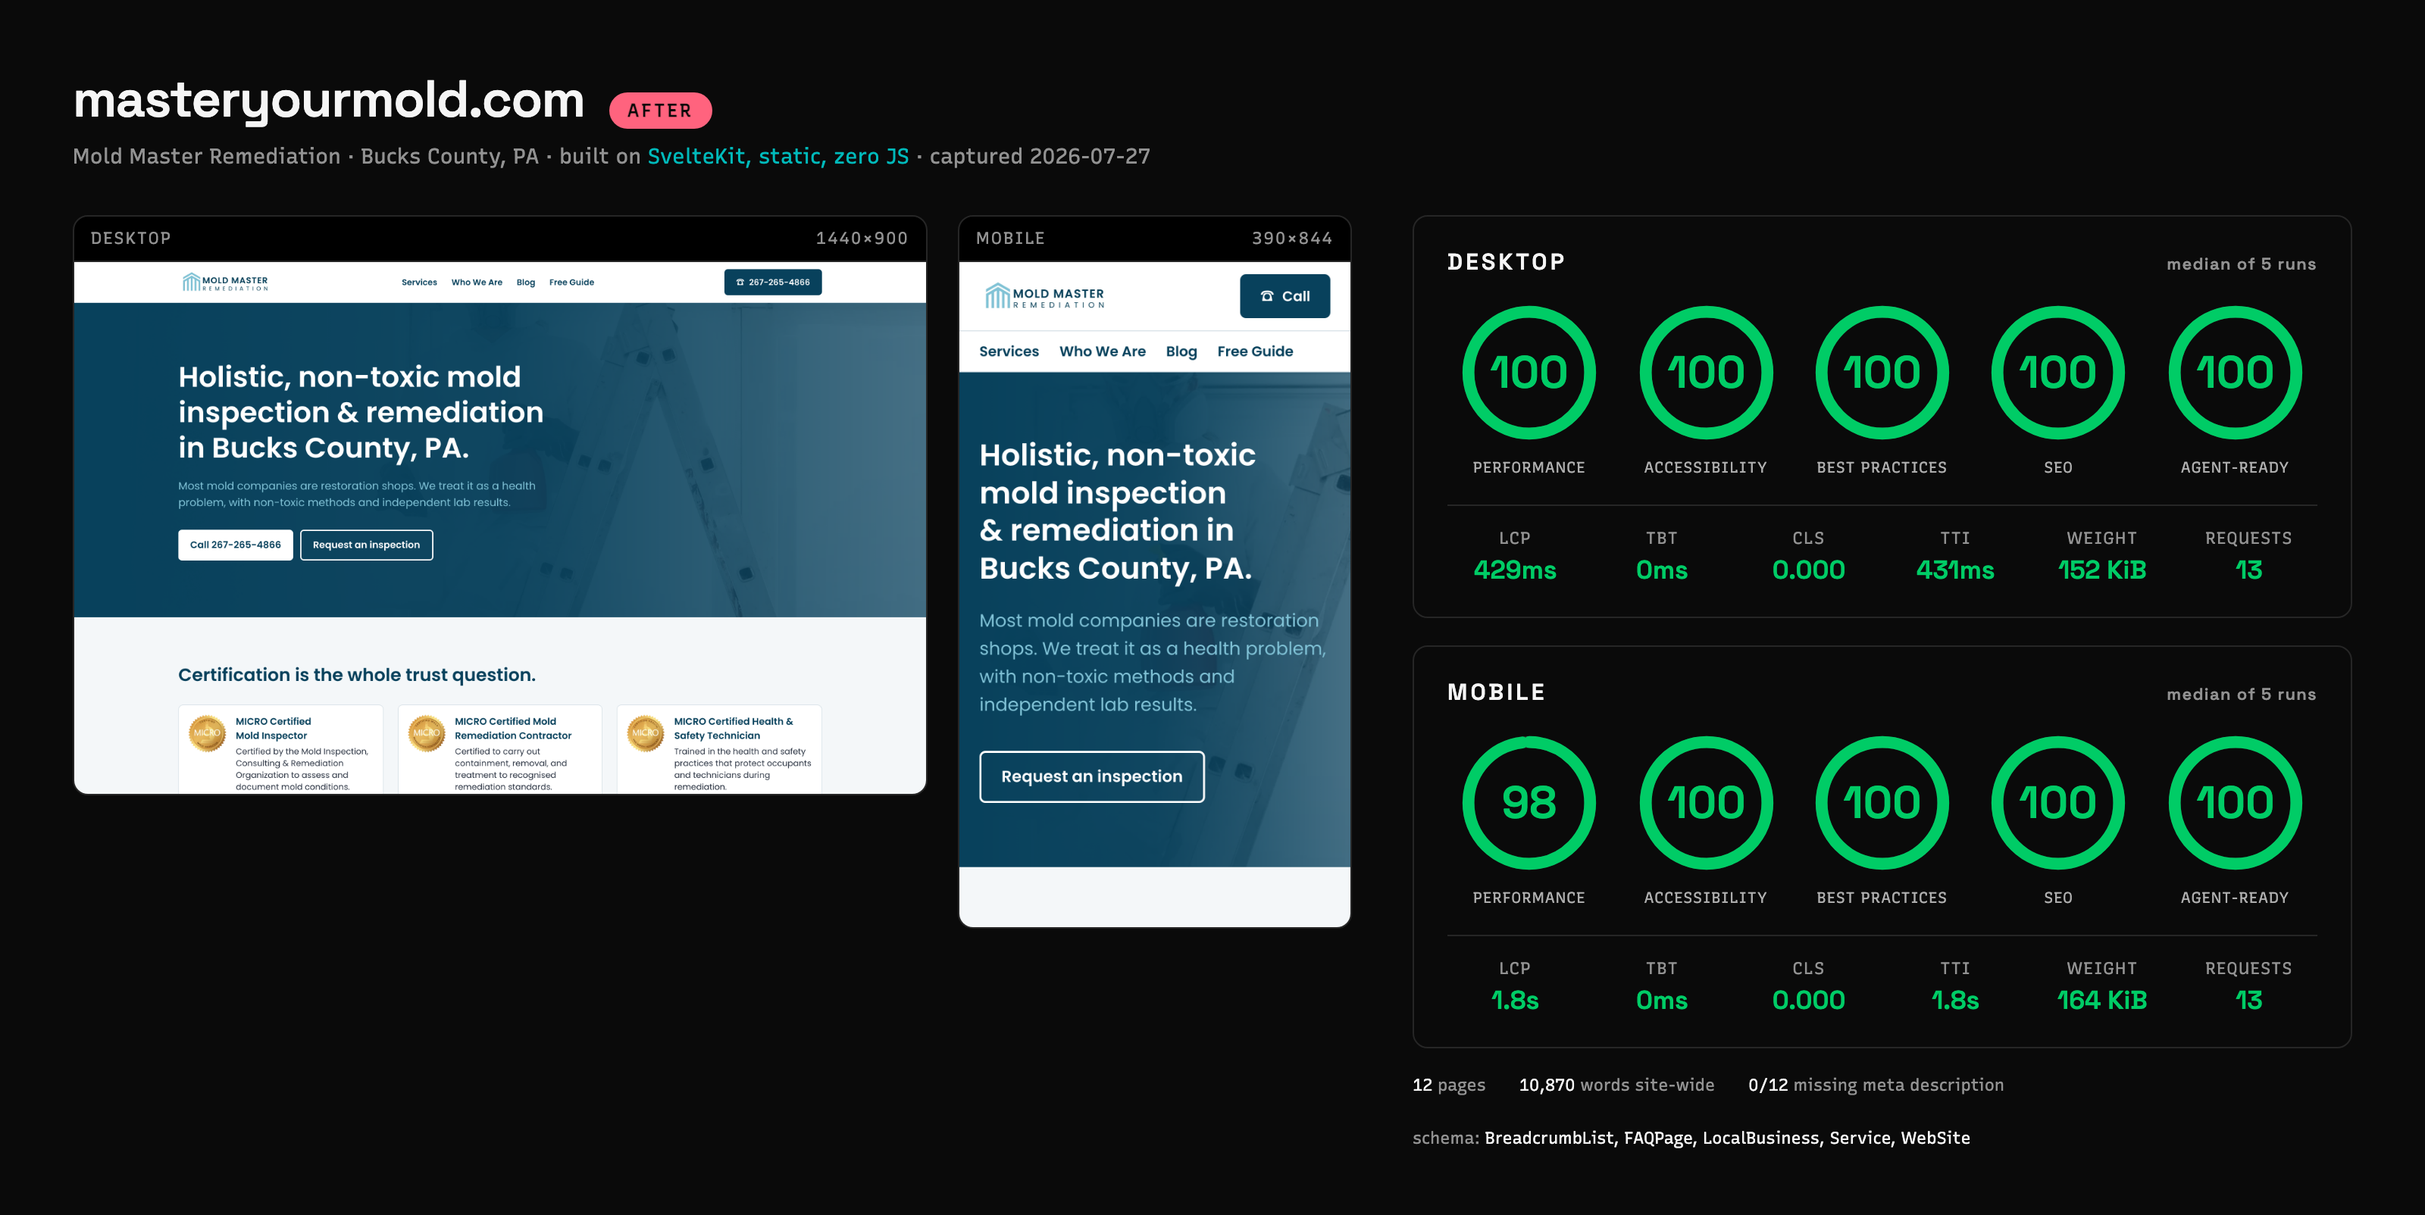
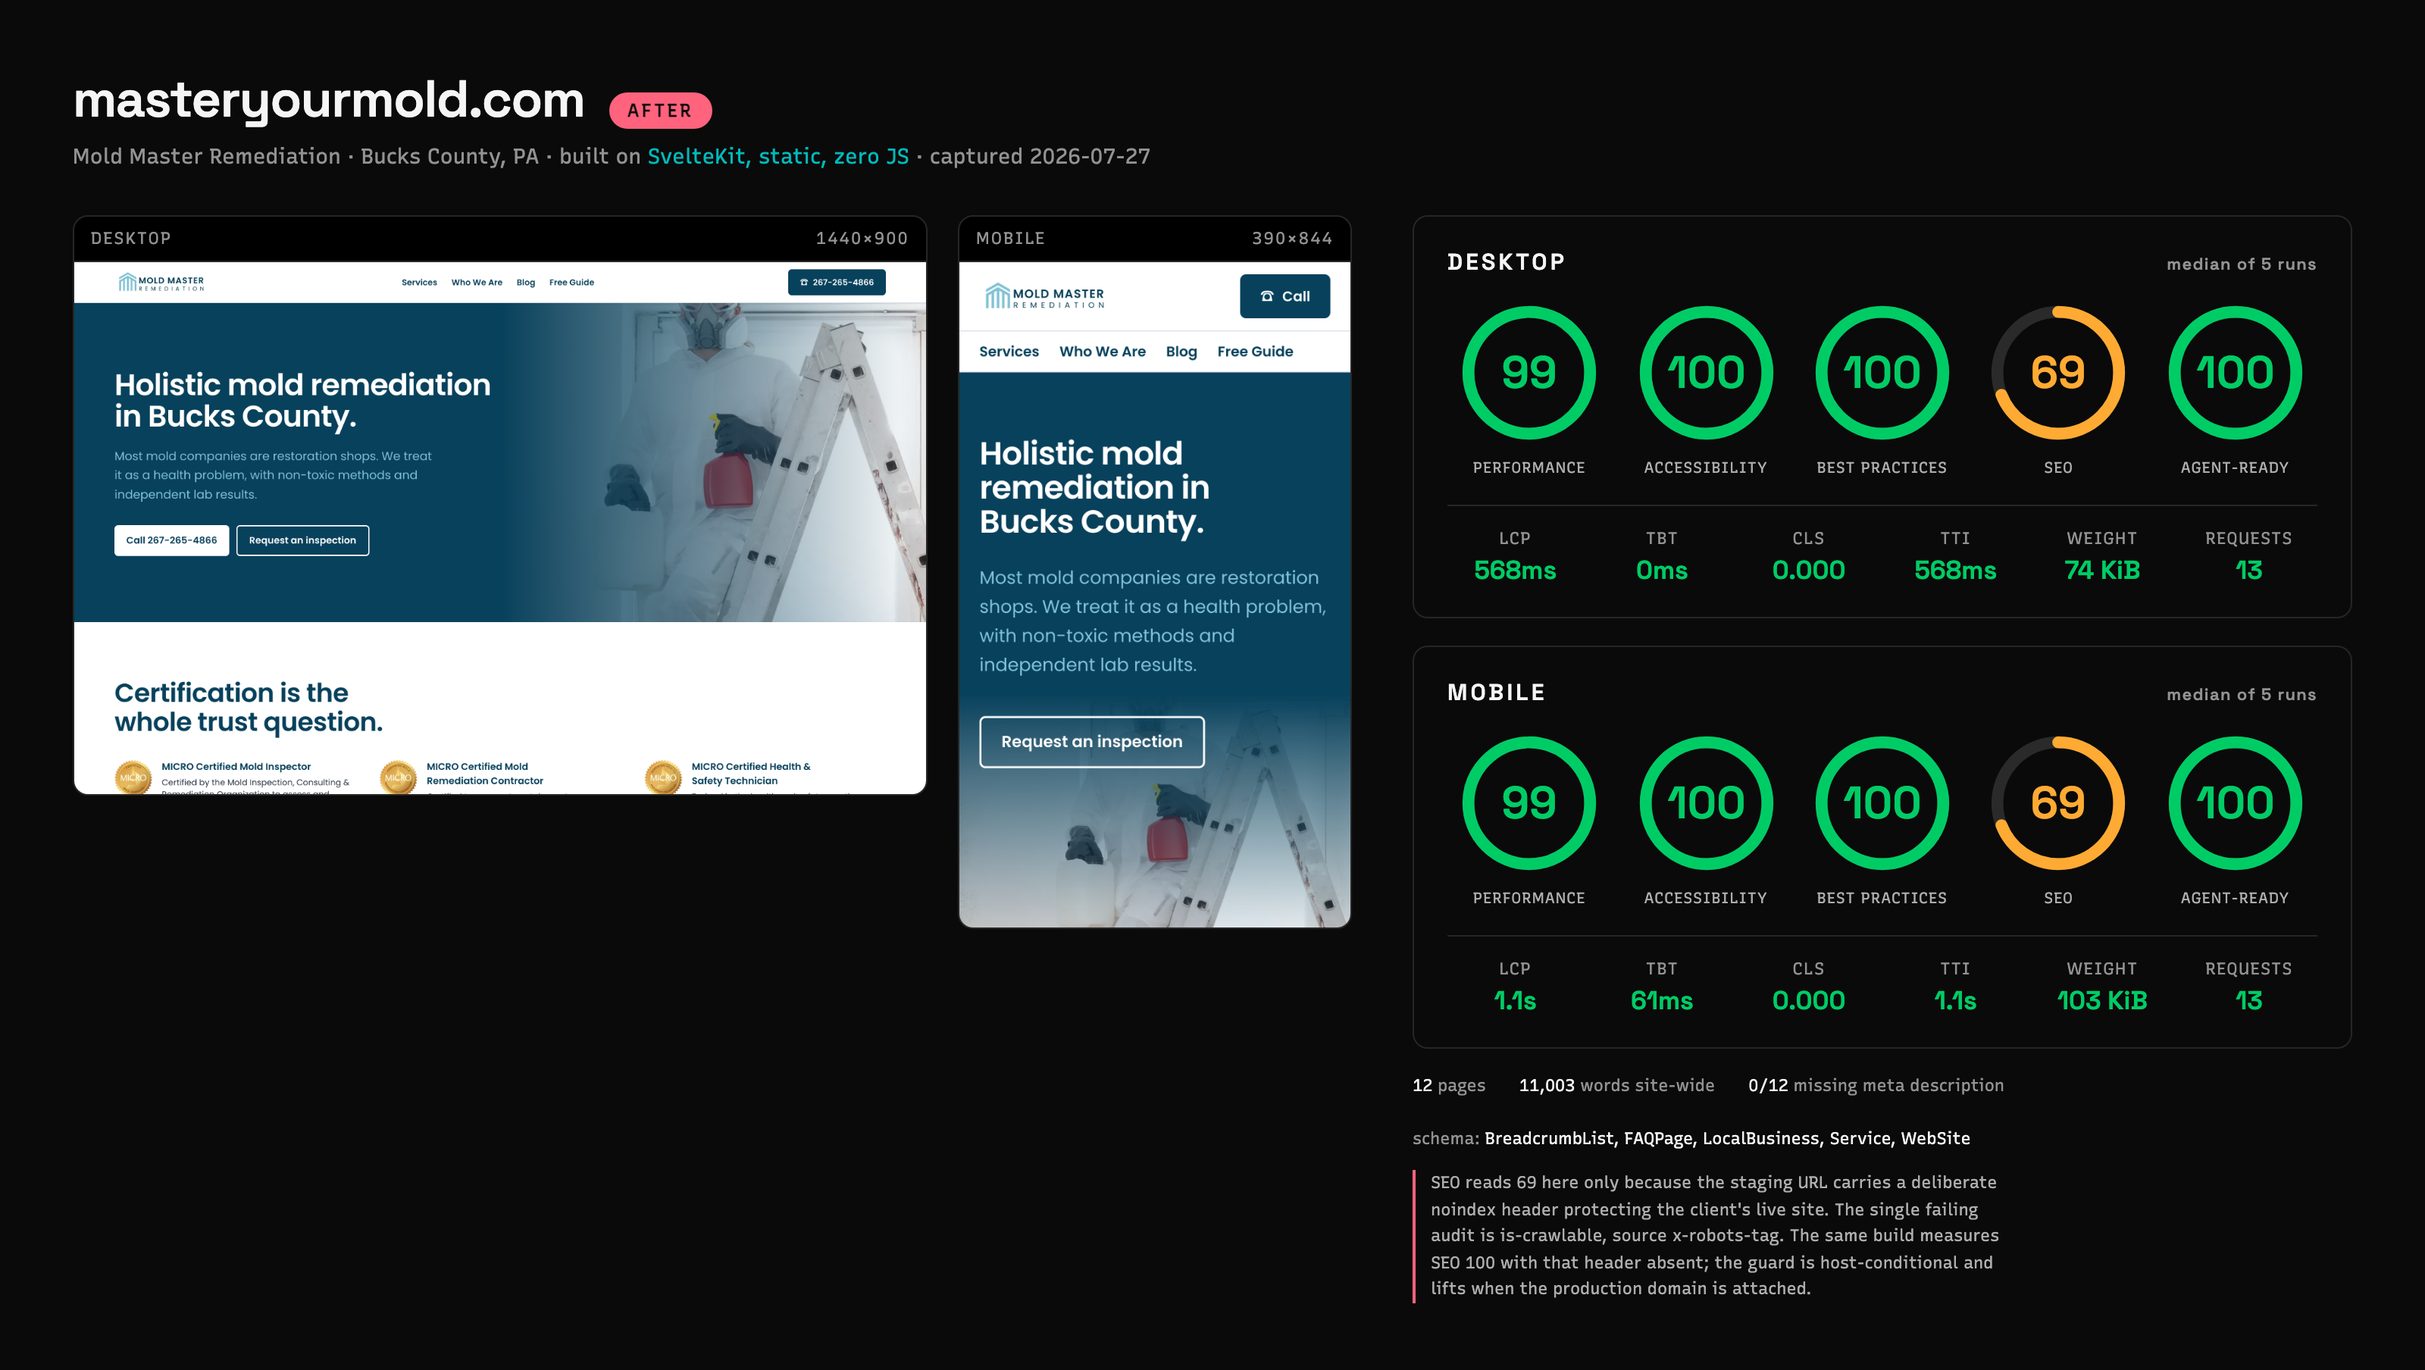
case-study: after state, measured over the network
02-after.md, plus a regenerated after.png and after.json from the deployed
build. Both columns are now measured over a real network against a real CDN
(Wix on Fastly, the rebuild on Vercel), which closes the caveat the earlier
after-numbers carried: those came from a locally served build and were honest
about structure but optimistic about latency.

Median of 5 per form factor:
  mobile   perf 67 -> 99   a11y 95 -> 100   agent-ready 67 -> 100
  desktop  perf 94 -> 99   a11y 91 -> 100   agent-ready 67 -> 100
  mobile LCP 4.32s -> 1.08s, TTI 10.80s -> 1.08s, TBT 448ms -> 61ms
  weight 1,557 -> 103 KiB (15x), requests ~179 -> 13 (13.8x)
  meta descriptions 11/13 missing -> 0/12, schema 2 types -> 5

MEASUREMENT ARTIFACT, stated on the card itself rather than quietly resolved in
whichever direction flatters: SEO reads 69 on the staging URL, not 100. The
cause is our own deliberate X-Robots-Tag noindex protecting the client's live
site from an indexed staging copy. The single failing audit is is-crawlable,
whose reported source is literally that header; every other SEO audit passes;
and the same build measures SEO 100 on all five runs with the header absent
(lighthouse/runs-local/). Reporting 69 would read as "the rebuild hurt SEO",
which is false. Reporting 100 without evidence would be a claim. Both run sets
are kept.

Desktop Speed Index went the wrong way, 0.87s -> 1.22s, and the doc says so: the
old page had no meaningful hero image and this one loads a real photograph.
[…]

diff --git a/case-studies/masteryourmold/02-after.md b/case-studies/masteryourmold/02-after.md
@@ -1,0 +1,247 @@
+# masteryourmold.com — after state
+
+**Mold Master Remediation** · Bucks County, PA
+Rebuilt on **SvelteKit**, fully prerendered, **zero client JavaScript** · Measured **2026-07-27**
+
+Companion to [`00-baseline.md`](./00-baseline.md) (what was wrong) and
+[`01-rebuild-scope.md`](./01-rebuild-scope.md) (what we said we'd do). This is what shipped.
+
+Code: `threesam/moldmaster` · Live: `moldmaster.vercel.app`
+
+> **Read the status honestly.** This is deployed to a staging URL, not to the client's domain. The
+> DNS cutover has not happened, so the old Wix site is still what the public sees. Everything below is
+> measured on the real thing over a real network; none of it is a projection.
+
+---
+
+## 0. Method, and what changed about it
+
+Same pipeline as the baseline (`~/Code/Me/scripts/case-study`), same median-of-5, same form factors.
+Both columns are now measured **over the network against a real CDN** (Wix on Fastly, the rebuild on
+Vercel), which closes the caveat flagged in the baseline: the earlier after-numbers came from a
+locally served build and were honest about structure but optimistic about latency.
+
+**One measurement artifact, stated up front.** The staging URL carries a deliberate
+`X-Robots-Tag: noindex, nofollow`, because every page canonicalises to `www.masteryourmold.com` and an
+indexed staging copy would compete with the client's live site. Lighthouse reads that as a failure of
+the `is-crawlable` audit and drops SEO from 100 to **69**.
+
+That is scaffolding, not the product:
+
+- The **only** failing SEO audit is `is-crawlable`, and its reported source is literally
+  `x-robots-tag: noindex, nofollow`.
+- Every other SEO audit passes: `document-title`, `meta-description`, `http-status-code`, `link-text`,
+  `crawlable-anchors`, `robots-txt`, `image-alt`, `hreflang`, `canonical`.
+- The same build measured without that header scores **SEO 100 on all five runs, both form factors**
+  (`lighthouse/runs-local/`).
+- The guard is host-conditional on `*.vercel.app` and lifts the moment a production domain is
+  attached.
+
+Both measurements are kept in the repo rather than the flattering one being reported alone.
+
+| Run set | What it is |
+|---|---|
+| `lighthouse/runs/` | before, `www.masteryourmold.com`, network |
+| `lighthouse/runs-after/` | after, `moldmaster.vercel.app`, network, **with** the staging noindex |
+| `lighthouse/runs-local/` | after, identical build served without the staging header |
+
+---
+
+## 1. Scores
+
+Median of 5 runs per form factor.
+
+### Desktop
+
+| | Performance | Accessibility | Best practices | SEO | Agent-ready |
+|---|---|---|---|---|---|
+| Before | 94 | 91 | 100 | 100 | **67** |
+| After | **99** | **100** | 100 | 69 *(100 without the staging guard)* | **100** |
+
+### Mobile
+
+| | Performance | Accessibility | Best practices | SEO | Agent-ready |
+|---|---|---|---|---|---|
+| Before | **67** | 95 | 100 | 100 | **67** |
+| After | **99** | **100** | 100 | 69 *(100 without the staging guard)* | **100** |
+
+Per-run after scores, so the spread is visible: desktop performance `97, 98, 99, 99, 100`; mobile
+performance `99, 99, 99, 99, 100`. Accessibility, best practices and agent-ready were 100 on every
+single run.
+
+---
+
+## 2. Core Web Vitals
+
+| Metric | Desktop before | Desktop after | Mobile before | Mobile after |
+|---|---|---|---|---|
+| LCP | 1.63 s | **0.57 s** | **4.32 s** | **1.08 s** |
+| TBT | 0 ms | 0 ms | 448 ms | **61 ms** |
+| CLS | 0.011 | **0.000** | 0.003 | **0.000** |
+| Time to Interactive | 1.63 s | **0.57 s** | **10.80 s** | **1.08 s** |
+| Page weight | 1,322 KiB | **74 KiB** | 1,557 KiB | **103 KiB** |
+| Requests | ~172 | **13** | ~179 | **13** |
+
+**The mobile numbers are the ones that matter.** LCP moved out of Google's "poor" band (>4 s) to
+comfortably inside "good" (≤2.5 s). Time to interactive went from 10.8 s to 1.08 s, a **10× change**:
+the old page looked ready for nine seconds before it could respond to a tap. Page weight is **15×
+lighter** and there are **13.8× fewer requests**.
+
+**The variance is gone, and that was half the problem.** The old site's mobile LCP ranged 3.6 s to
+16.9 s across five identical runs, and TTI ranged 7.9 s to 22.5 s. The rebuild's mobile LCP ranges
+1.07 s to 1.30 s. An unpredictable site is worse than a uniformly slow one, because you cannot tell a
+customer what to expect.
+
+**Honest note on desktop Speed Index:** it went *up*, 0.87 s to 1.22 s. The old page had no meaningful
+hero image; this one loads a real photograph at full strength. That is a deliberate trade of a
+fractional metric for the image that makes the page read as a real trade rather than a brochure.
+Desktop performance still scores 99.
+
+---
+
+## 3. Agent-ready: 67 → 100
+
+The baseline's single failing `agentic-browsing` audit was `agent-accessibility-tree`: a malformed
+accessibility tree. That is fixed, and it is the same fix that serves screen readers, which is why
+accessibility moved 91/95 → 100 in the same pass.
+
+| Signal | Before | After |
+|---|---|---|
+| AI crawler access | ✅ 200 | ✅ 200 (GPTBot, ClaudeBot, PerplexityBot, Google-Extended, CCBot, OAI-SearchBot) |
+| Accessibility tree | ❌ malformed | ✅ well-formed |
+| `llms.txt` | Wix auto-generated, names the business "Mold Master Rem" | hand-shaped, generated from the same content the pages render |
+| Entity consistency | ❌ four brand-name variants | ✅ one name, sourced from `site.ts` |
+| Answerable structure | ❌ no FAQ schema, 6/7 service pages with zero H2s | ✅ FAQPage on every service page, real H2 hierarchy |
+| Extractable facts | ❌ no service area, hours, or process | ✅ service area, process, credentials, review text |
+
+---
+
+## 4. Structure and SEO fundamentals
+
+| | Before | After |
+|---|---|---|
+| Pages missing a meta description | **11 of 13** | **0 of 12** |
+| Pages with exactly one H1 | 8 of 13 | **all** |
+| Service pages with zero H2s | 6 of 7 | **0** |
+| Schema types | 2 (`WebSite`, `LocalBusiness`) | **5** (`+ Service`, `FAQPage`, `BreadcrumbList`) |
+| Conflicting `WebSite` blocks | 2 | 1 |
+| Live staging page in the index | `/copy-of-who-we-are`, titled "WHO WE ARE - before editing" | gone, 301 to `/who-we-are` |
+| Brand-name variants | 4 | 1 |
+| Sitemap | Wix-generated, listed the draft page | generated from content, 14 URLs |
+
+**URLs preserved.** Every existing path still resolves: the seven service pages, `/our-services`,
+`/who-we-are`, `/free-mold-guide`, `/blog`, and `/post/[slug]`. The migration has **exactly one
+redirect**, and it is the page that should never have existed. Nothing with index history was traded
+for a tidier structure.
+
+Meta descriptions can't regress: `description` is a required prop on the SEO component, so a page
+physically cannot ship without one.
+
+---
+
+## 5. Content
+
+| | Before | After |
+|---|---|---|
+| Words across the page set | 4,954 (13 pages) | **11,003** (12 pages) |
+| Blog posts | 543 + 583 words | 888 + 925 words |
+| Service pages with FAQs | 0 | 7 |
+
+**Caveat on those totals:** both counts include navigation and footer chrome, and the rebuild has a
+fuller footer, so some of the increase is furniture rather than content. The cleaner figure is the
+service copy measured from source: **5,162 words across the seven service pages**, which on its own
+exceeds the old site's entire 4,954-word total. Each service page carries 650–850 words plus 5–6 FAQs.
+
+For scale, the competitor benchmark from baseline §5: one C&J page carried **3,564 words**, more than
+seven times the old `/mold-remediation` page. That specific gap is closed.
+
+**What has not changed, and cannot yet:** rankings. Baseline §5 found the site absent from every
+non-branded query in its own county. Search takes months and compounds with what gets published, and
+per the sixtom SEO/AEO hedge rule the rebuild sells the foundation, never the outcome. The honest
+claim today is that the structural reasons for the absence are fixed.
+
+---
+
+## 6. Security
+
+| Header | Before | After |
+|---|---|---|
+| `content-security-policy` | ❌ | ✅ |
+| `x-frame-options` | ❌ | ✅ `DENY` |
+| `referrer-policy` | ❌ | ✅ |
+| `permissions-policy` | ❌ | ✅ |
+| `x-content-type-options` | ❌ | ✅ `nosniff` |
+| `strict-transport-security` | ✅ | ✅ |
+
+All verified with `curl -I` against the deployment, not read from source. That distinction earned its
+keep: the first deployment shipped **none** of these. They were set in `hooks.server.ts`, and because
+every page is prerendered the hook never runs for a page request, so the whole block was dead code
+that read like a deliverable. Moved to `vercel.json`, which applies to static responses. Reading the
+source would never have caught it.
+
+DMARC is still absent on the domain. That is a DNS record, unrelated to the rebuild, and worth fixing.
+
+---
+
+## 7. What the rebuild also fixed that nobody asked about
+
+- **Trust signals were on their own site and unused.** Two real reviews with attribution (Elizabeth M.
+  of Washington Crossing, Jake S. of Jamison) plus the Google reviews link, migrated from their Wix
+  homepage. Jake's is the positioning in a customer's own words: cold-like symptoms for months, found
+  mold, no problems since.
+- **Their service area was published in the Wix footer** and is now on-page and in schema: Bucks,
+  Montgomery, Delaware, Chester, Philadelphia, New Jersey.
+- **Six certification marks were buried.** IICRC, ASHI, and three MICRO certifications plus the
+  Happening List 2026 award now have a dedicated block and `hasCredential` markup.
+- **The brand font wasn't loading.** 151 elements on the live Wix site render in Arial because Poppins
+  arrives via a third-party stylesheet. Self-hosted now, 16 KB for both weights.
+- **Positioning.** Holistic and health-led was one service among seven; it is now the page's thesis.
+  Every competitor ranking for "mold remediation Bucks County" is a water/fire/storm restoration firm.
+  None of them position on health.
+
+---
+
+## 8. Verification
+
+- **`/drive` 5 of 5 journeys, 26 steps**, against the deployment: landing to contact, service page and
+  FAQ, blog and Portable Text rendering, all preserved URLs plus the single redirect, and the contact
+  form failing loudly. Zero console errors, which is a meaningful assertion on a site that ships no
+  JavaScript.
+- **37 unit tests**, pinning the baseline findings so they cannot regress: URLs unchanged, every page
+  has a meta description, no fabricated star ratings, brand name never truncated, schema omits
+  unverified fields.
+- **Lint, type-check and build clean.**
+
+---
+
+## 9. Still open
+
+Nothing here blocks the work; all of it is honesty about scope.
+
+1. **Not on the production domain.** The DNS cutover has not happened, so the public still sees the
+   Wix site and none of this is live for customers.
+2. **No traffic baseline.** Baseline §6 confirmed zero third-party analytics over 26 page loads.
+   Umami event hooks are wired but no analytics account is connected, and no pre-rebuild traffic data
+   exists to compare against. **Wix Analytics history should be exported before the cutover** or it is
+   gone.
+3. **The contact form is not live.** `/api/contact` validates, rate-limits and honeypots correctly,
+   then returns 503 with a readable page pointing at the phone number, because no SMTP credentials
+   have been supplied. It fails loudly rather than accepting a lead it cannot deliver.
+4. **Facts still marked `NEEDS_CLIENT`**: street address, opening hours, pricing. The schema omits
+   them rather than guessing. The live site's schema puts a *county* in `addressLocality`, which is
+   wrong; we would rather emit nothing than a second wrong fact.
+5. **Rankings unchanged and will be for months** (§5).
+6. **Copy is written from the outside.** Accurate about the service category, not yet specific about
+   *their* process, products, or what "holistic" means in their practice. That comes from the intro
+   call and slots into `services.ts` without touching a component.
+7. **CrUX field data still unavailable.** All performance numbers here are lab, not field.
+
+---
+
+## 10. The one-line version
+
+> A business that was invisible for every search except its own name, on a page that took 10.8 seconds
+> to become usable on a phone, now loads in **1.08 seconds**, weighs **15× less**, scores **100 for
+> accessibility and answer-engine readiness**, and says the one true thing about itself that none of
+> its competitors can say. The rankings will take months. Everything that was structurally stopping
+> them is fixed.

diff --git a/case-studies/masteryourmold/01-rebuild-scope.md b/case-studies/masteryourmold/01-rebuild-scope.md
@@ -1,7 +1,7 @@
 # masteryourmold.com — rebuild scope
 
 Companion to [`00-baseline.md`](./00-baseline.md). The baseline says what's broken; this says what
-gets built. Every item traces to a numbered finding so the case study can show cause → fix → delta.
+gets built; [`02-after.md`](./02-after.md) says what shipped and what it measured. Every item traces to a numbered finding so the case study can show cause → fix → delta.
 
 **Stack:** SvelteKit 2 + Svelte 5 + Tailwind 4 + TypeScript strict, Vercel adapter, Vitest +
 Playwright — mirroring the sixtom repo so the toolchain (`/rev`, `/drive`, `/a11y`, `/lighthouse`)

diff --git a/case-studies/masteryourmold/00-baseline.md b/case-studies/masteryourmold/00-baseline.md
@@ -9,6 +9,9 @@ same way and the delta is checkable by anyone.
 
 Structured against the sixtom production-sprint ledger — each section maps to a paid deliverable.
 
+**The after state is in [`02-after.md`](./02-after.md)**, measured the same way. The scope that
+connects them is [`01-rebuild-scope.md`](./01-rebuild-scope.md).
+
 > **Captured from outside, before owner access.** No Search Console, analytics, billing, or business
 > context at capture time — all expected later, at which point the flagged sections get filled in.
 > That bounds what today's numbers claim: **lab data, not field data; a query sample, not tracked
